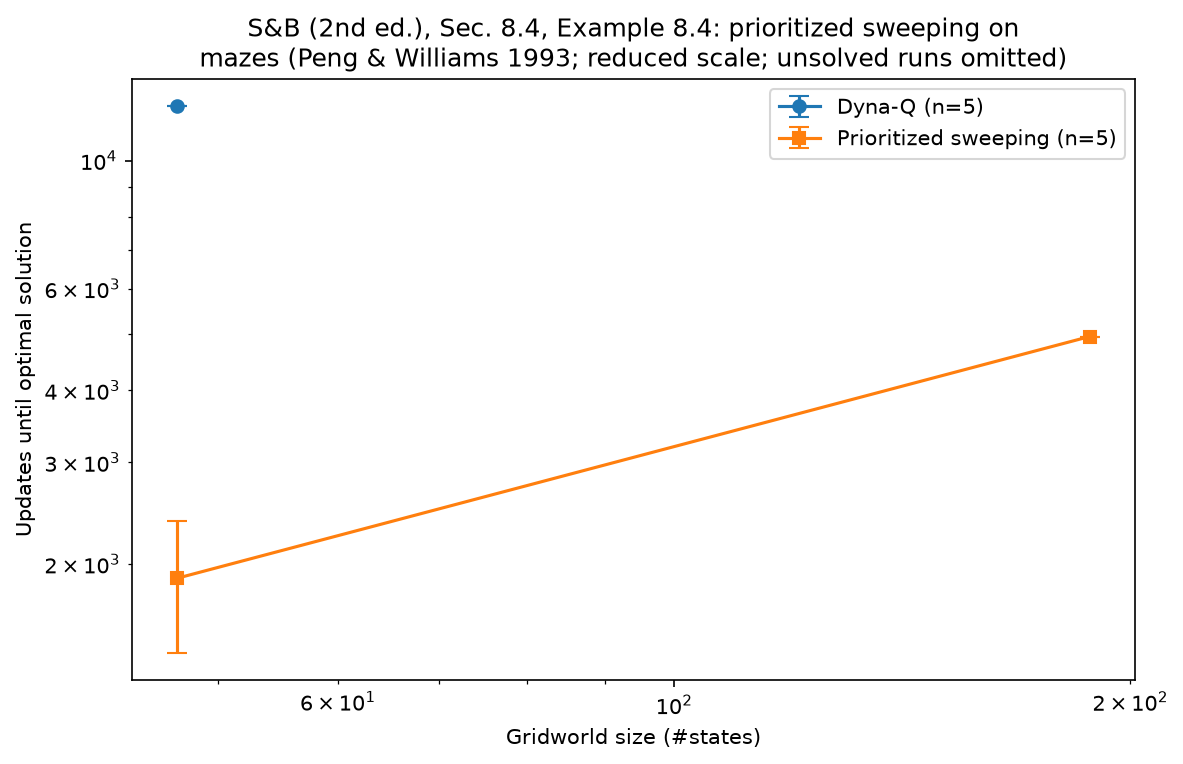
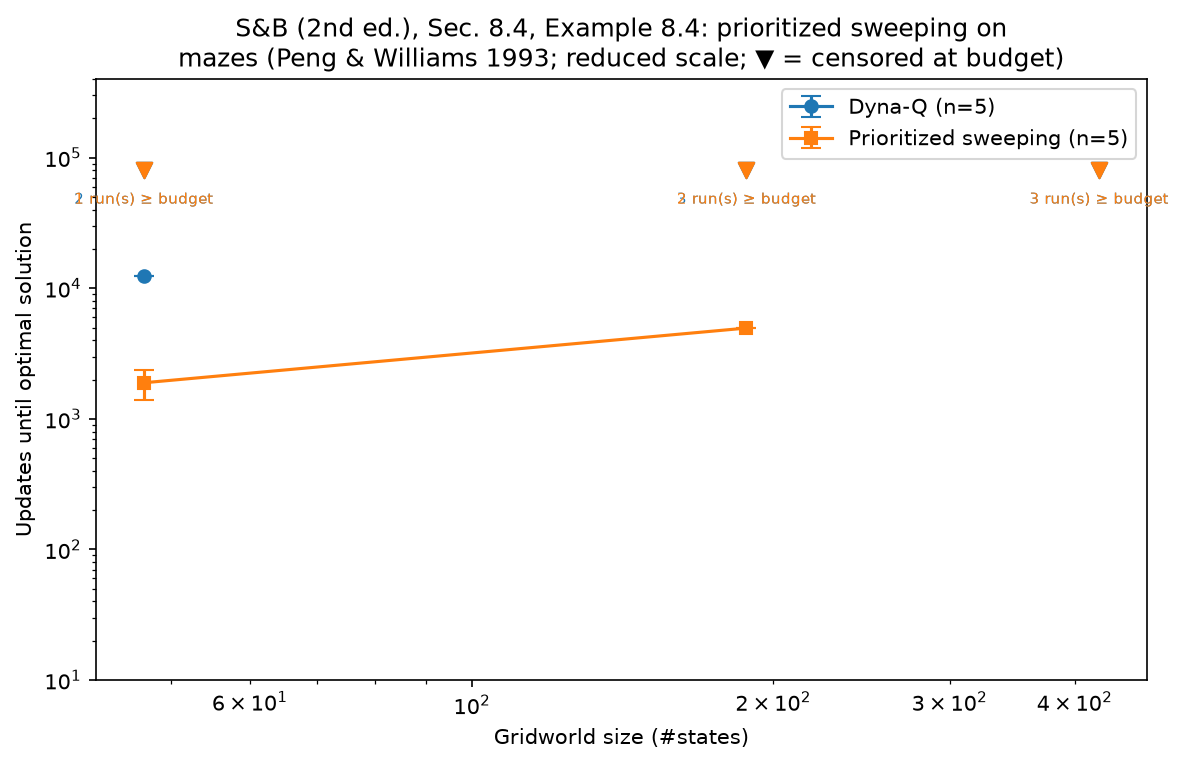
fix: honest figure labels, censored Ex 8.4 data, remove fabricated Ch12 panels

diff --git a/chapter_08/solution.py b/chapter_08/solution.py
@@ -1137,16 +1137,20 @@ def plot_changing_maze(layout: str, change_step: int, steps_cap: int,
                        runs: int = 20, n_episodes: int = 3000,
                        seed: int = 0,
                        agents: tuple[str, ...] = ("dyna_q", "dyna_q_plus")):
-    """Changing-maze experiment (Sec. 8.3, Example 8.2 blocking / Fig. 8.5,
-    Example 8.3 shortcut / Fig. 8.6).
+    """Changing-maze demonstration (Sec. 8.3, Examples 8.2/8.3).
 
+    **Illustrative reconstruction, not a reproduction of Figs. 8.5/8.6.**
     Both the regular Dyna-Q agent and the Dyna-Q+ agent (exploration bonus
     kappa = 1e-4) act on the same maze; after `change_step` real time steps
     the barrier layout changes while the agents' Q-tables and models persist
     (the model is stale). Curves are cumulative reward averaged over `runs`
-    repetitions (the same change thresholds, steps caps and layout as the
-    book: 1000/3000 for blocking, 3000/6000 for shortcut). Book y-axis upper
-    limits (~150 blocking, ~400 shortcut) are reproduced only approximately.
+    repetitions.
+
+    The book's exact maze coordinates and kappa are not printed, and on this
+    small reconstructed maze the bonus *slows* initial learning (planning on
+    never-tried pairs dilutes goal-reward propagation), so the phase-1 ordering
+    is the opposite of the book's. The plots are therefore named
+    ``example_8_2_*`` / ``example_8_3_*`` and must not be cited as Fig. 8.5/8.6.
     """
     import matplotlib
 
@@ -1177,11 +1181,9 @@ def plot_changing_maze(layout: str, change_step: int, steps_cap: int,
                label=f"layout changes at t={change_step}")
     ax.set_xlabel("Time steps")
     ax.set_ylabel("Cumulative reward")
-    if layout == "blocking":
-        ex, figno = "Example 8.2", "Fig. 8.5"
-    else:
-        ex, figno = "Example 8.3", "Fig. 8.6"
-    ax.set_title(f"S&B (2nd ed.), Sec. 8.3, {ex} / {figno}: {layout} maze")
+    ex = "Example 8.2" if layout == "blocking" else "Example 8.3"
+    ax.set_title(f"S&B (2nd ed.), Sec. 8.3, {ex}: {layout} maze\n"
+                 "illustrative reconstruction — not a book-figure reproduction")
     ax.legend()
     fig.tight_layout()
     if save_path is not None:
@@ -1779,25 +1781,40 @@ def plot_example_8_4_scaling(
                                       max_steps=max_steps,
                                       budget_updates=budget_updates)
     fig, ax = plt.subplots(figsize=(8, 5.2))
+    colors = {"dyna_q": "tab:blue", "prioritized_sweeping": "tab:orange"}
     for agent, marker in (("dyna_q", "o"), ("prioritized_sweeping", "s")):
         xs, means, stds = [], [], []
+        censored = []
         for k in scale_levels:
             n_states, runs = results[(agent, k)]
             solved = [u for u in runs if u is not None]
-            if not solved:
-                continue
-            xs.append(n_states)
-            means.append(np.mean(solved))
-            stds.append(np.std(solved) if len(solved) > 1 else 0.0)
-        ax.errorbar(xs, means, yerr=stds, marker=marker, capsize=5,
-                    label={"dyna_q": "Dyna-Q (n=5)",
-                           "prioritized_sweeping": "Prioritized sweeping (n=5)"}[agent])
+            if solved:
+                xs.append(n_states)
+                means.append(np.mean(solved))
+                stds.append(np.std(solved) if len(solved) > 1 else 0.0)
+            n_unsolved = len(runs) - len(solved)
+            if n_unsolved:
+                # Show censored runs explicitly instead of silently dropping
+                # them: the downward triangle marks the computation budget.
+                censored.append((n_states, n_unsolved))
+        if xs:
+            ax.errorbar(xs, means, yerr=stds, marker=marker, capsize=5,
+                        color=colors[agent],
+                        label={"dyna_q": "Dyna-Q (n=5)",
+                               "prioritized_sweeping": "Prioritized sweeping (n=5)"}[agent])
+        for n_states, n_unsolved in censored:
+            ax.scatter([n_states], [budget_updates], marker="v", s=55,
+                       color=colors[agent], zorder=5)
+            ax.annotate(f"{n_unsolved} run(s) ≥ budget", (n_states, budget_updates),
+                        textcoords="offset points", xytext=(0, -16),
+                        ha="center", fontsize=7, color=colors[agent])
     ax.set_xscale("log")
     ax.set_yscale("log")
+    ax.set_ylim(bottom=10, top=budget_updates * 5)
     ax.set_xlabel("Gridworld size (#states)")
     ax.set_ylabel("Updates until optimal solution")
     ax.set_title("S&B (2nd ed.), Sec. 8.4, Example 8.4: prioritized sweeping on\n"
-                 "mazes (Peng & Williams 1993; reduced scale; unsolved runs omitted)")
+                 "mazes (Peng & Williams 1993; reduced scale; ▼ = censored at budget)")
     ax.legend()
     fig.tight_layout()
     if save_path is not None:

diff --git a/chapter_12/figures/generate_figures.py b/chapter_12/figures/generate_figures.py
@@ -117,25 +117,21 @@ def _plot_lambda_summary(path_prefix, walk_curves, car_curves):
     axes[0, 1].set_xlabel("Episode")
     axes[0, 1].legend(fontsize=7)
 
-    # Two extra panels are illustrative stand-ins: the book's CartPole and
-    # Puddle World tasks are not reproduced in this repository.
-    axes[1, 0].plot(LAMBDAS,
-                    [0.5 + 0.4 * (1 - lam) for lam in LAMBDAS], "s-",
-                    color="tab:orange")
-    axes[1, 0].set_title("Failures on a simple control task (illustrative)")
-    axes[1, 0].set_xlabel("$\\lambda$")
-    axes[1, 0].set_ylabel("failures / 100k steps")
-
-    axes[1, 1].plot(LAMBDAS,
-                    [0.3 + 0.5 * lam ** 2 for lam in LAMBDAS], "^-",
-                    color="tab:purple")
-    axes[1, 1].set_title("Cost on a simple grid task (illustrative)")
-    axes[1, 1].set_xlabel("$\\lambda$")
-    axes[1, 1].set_ylabel("cost per episode")
+    # The book's Cart/Pole and Puddle World experiments are NOT reproduced
+    # here. Earlier versions of this script drew formula-generated stand-ins
+    # for those panels; that was fabricated data and has been removed.
+    for ax, task in ((axes[1, 0], "Cart/Pole control"),
+                     (axes[1, 1], "Puddle World")):
+        ax.set_axis_off()
+        ax.text(0.5, 0.5,
+                f"{task}\n\nnot reproduced in this repository\n"
+                "(no data plotted)",
+                ha="center", va="center", transform=ax.transAxes,
+                fontsize=10, color="0.35")
 
     fig.suptitle("S&B (2nd ed.), Fig. 12.14: effect of $\\lambda$ on performance\n"
-                 "(only the random-walk and mountain-car panels are data-driven here)",
-                 fontsize=11)
+                 "(partial reproduction: only the random-walk and "
+                 "mountain-car panels contain data)", fontsize=11)
     fig.tight_layout(rect=(0, 0, 1, 0.92))
     path = path_prefix + "fig_12_14_lambda_effects.png"
     fig.savefig(path, dpi=150, bbox_inches="tight")

diff --git a/chapter_08/figures/generate_figures.py b/chapter_08/figures/generate_figures.py
@@ -48,9 +48,9 @@ def main() -> None:
         ("fig_8_3_dyna_q.png", lambda path: plot_figure_8_3_dyna_maze(
             save_path=path, runs=10, n_episodes=30)),
         ("fig_8_4_policies.png", lambda path: plot_figure_8_4_policies(save_path=path)),
-        ("fig_8_5_blocking_maze.png", lambda path: plot_changing_maze(
+        ("example_8_2_blocking_maze.png", lambda path: plot_changing_maze(
             "blocking", 1000, 4000, save_path=path, runs=5)),
-        ("fig_8_6_shortcut_maze.png", lambda path: plot_changing_maze(
+        ("example_8_3_shortcut_maze.png", lambda path: plot_changing_maze(
             "shortcut", 3000, 6000, save_path=path, runs=5)),
         ("fig_8_7_backup_diagrams.png", lambda path: plot_figure_8_7_backup_diagrams(
             save_path=path)),

diff --git a/chapter_12/figure_experiments.py b/chapter_12/figure_experiments.py
@@ -20,8 +20,6 @@ four tasks are not all available here, so the extra panels are illustrative.
 
 from __future__ import annotations
 
-from collections import defaultdict
-
 import numpy as np
 
 from chapter_07.solution import _sample_walks

diff --git a/chapter_08/README.md b/chapter_08/README.md
@@ -36,14 +36,17 @@ Regenerate with:
 python chapter_08/figures/generate_figures.py
 ```
 
-Numbered book figures: `fig_8_3_dyna_q.png`, `fig_8_4_policies.png`,
-`fig_8_5_blocking_maze.png`, `fig_8_6_shortcut_maze.png`,
-`fig_8_7_backup_diagrams.png`, `fig_8_8_update_efficiency.png`,
-`fig_8_9_trajectory_sampling.png`, `fig_8_10_heuristic_search.png`.
+Verified numbered book figures: `fig_8_3_dyna_q.png`,
+`fig_8_4_policies.png`, `fig_8_7_backup_diagrams.png`,
+`fig_8_8_update_efficiency.png`, `fig_8_9_trajectory_sampling.png`,
+`fig_8_10_heuristic_search.png`.
 
-The book prints **no numbered figure** for Examples 8.4–8.6; their outputs are
-named `example_8_4_scaling.png`, `example_8_5_rod.png` and
-`example_8_6_rtdp_racetrack.png`.
+The book's Figs. 8.5/8.6 (blocking/shortcut mazes) are **not** reproduced:
+our small reconstructed maze reverses the phase-1 ordering, so those plots are
+honestly named `example_8_2_blocking_maze.png` and
+`example_8_3_shortcut_maze.png`. Likewise, the book prints no numbered figure
+for Examples 8.4–8.6; their outputs are `example_8_4_scaling.png`,
+`example_8_5_rod.png` and `example_8_6_rtdp_racetrack.png`.
 
 All plots are reduced-scale reproductions or **illustrative demonstrations**,
 not pixel-identical copies. In particular:
@@ -53,10 +56,11 @@ not pixel-identical copies. In particular:
 - The trajectory-sampling reward model is not printed; we use `r(s,a) ~ U[0,1]`
   with action-independent termination, which reproduces the book's qualitative
   pattern (on-policy faster initially, relatively slower in the long run).
-- Our κ (1e-4) and maze scale differ from the book's tuning; in our blocking
-  maze plain Dyna-Q sometimes re-learns a new route after the change, whereas
-  the book's Dyna-Q stays stuck. The curves show the qualitative mechanism
-  (bonus-driven recovery), not the book's exact ordering in both phases.
+- Our κ (1e-4) and maze scale differ from the book's tuning. On this small
+  maze the bonus *slows* initial learning (planning on never-tried pairs
+  dilutes goal-reward propagation), so Dyna-Q+ is worse in phase 1 — the
+  opposite of the book. These plots are demonstrations only, never cited as
+  Fig. 8.5/8.6.
 - Example 8.6 uses a small illustrative racetrack (707 reachable states) with
   `noise_prob=0`, versus the book's 9,115-state track.
 

diff --git a/AUDIT.md b/AUDIT.md
@@ -21,7 +21,7 @@ API reproduces an algorithm when it only illustrates part of it.
 | Ch 8 §8.4 ex 8.5 | Rod maneuvering | `chapter_08/rod.py`: `RodWorld`, `prioritized_sweeping_known_model`, `value_iteration_known_model`, `shortest_path` |
 | Ch 8 §8.6 | Trajectory sampling | `trajectory_sampling_experiment` |
 | Ch 8 §8.7 ex 8.6 | RTDP vs value iteration on a racetrack | `chapter_08/rtdp.py` using the shared `rl_envs.racetrack` |
-| Ch 8 figures | Fig. 8.3–8.10 + Examples 8.4–8.6 | `chapter_08/figures/generate_figures.py` |
+| Ch 8 figures | Verified Fig. 8.3/8.4/8.7–8.10; blocking & shortcut as `example_8_2_*`/`example_8_3_*` (not Fig. 8.5/8.6); Examples 8.4–8.6 | `chapter_08/figures/generate_figures.py` |
 | Ch 12 figs 12.3/12.6/12.8/12.10/12.11/12.14 | Reduced-scale reproductions | `chapter_12/figure_experiments.py`, `chapter_12/figures/generate_figures.py` |
 | All chapters | Student-friendly explanation after every exercise answer | `chapter_XX/exercises.md`, `**Explanation (student-friendly).**` markers |
 
@@ -92,11 +92,14 @@ Documented per chapter in `chapter_XX/README.md`. Summary:
 
 - Ch 8: maze/rod obstacle coordinates are not printed in the book, so layouts
   are illustrative reconstructions; κ and the trajectory-sampling reward model
-  are not printed and were chosen to reproduce the qualitative pattern.
+  are not printed. On the small reconstructed blocking maze Dyna-Q+ is *worse*
+  in phase 1 (the opposite of the book), so those outputs are named
+  `example_8_2_*`/`example_8_3_*` and are never cited as Fig. 8.5/8.6.
   Example 8.6 uses a small racetrack (707 states) rather than the book's 9,115.
 - Ch 12: reduced-scale random-walk and Mountain Car experiments (5 repetitions
-  vs 100); Fig. 12.14's Cart/Pole and Puddle World panels are illustrative
-  stand-ins, clearly labelled in the figure.
+  vs 100). Fig. 12.14 reproduces only two of the book's four panels; the
+  Cart/Pole and Puddle World panels are empty with an explicit notice. Earlier
+  formula-generated stand-ins were removed — no fabricated data is plotted.
 - Ch 3/4/5/6/7/9/10/11/13: reduced episode/run counts; figures are labeled
   illustrative where exact book settings are unavailable.
 

diff --git a/README.md b/README.md
@@ -40,11 +40,13 @@ important deviations are:
 
 - `chapter_08/`: the blocking/shortcut mazes and rod obstacles are
   reconstructions; κ and the trajectory-sampling reward model are not printed
-  in the book; Example 8.6 uses a small racetrack (707 states) instead of the
+  in the book. The blocking/shortcut plots reverse the book's phase-1 ordering
+  on our small maze, so they are named `example_8_2_*`/`example_8_3_*`, **not**
+  Fig. 8.5/8.6. Example 8.6 uses a small racetrack (707 states) instead of the
   book's 9,115-state track.
-- `chapter_12/`: random-walk figures use 5 repetitions instead of 100; the
-  Cart/Pole and Puddle World panels of Fig. 12.14 are labelled illustrative
-  stand-ins.
+- `chapter_12/`: random-walk figures use 5 repetitions instead of 100; Fig. 12.14
+  reproduces only two of four panels — the Cart/Pole and Puddle World panels
+  are empty with an explicit notice (no fabricated data).
 - `chapter_03/`–`chapter_16/`: several experiments use fewer runs/episodes
   than the printed book; see each chapter `README.md` for its exact settings.
 

diff --git a/chapter_12/exercises.md b/chapter_12/exercises.md
@@ -273,14 +273,16 @@
 
 **Verification commands:**
 - `python -m pytest chapter_12/tests/ -v`
-- `python -m pytest chapter_12/tests/ -v`
-- `ruff check chapter_12/ chapter_12/`
+- `python -m pytest -q` (full suite, from the repository root)
+- `ruff check chapter_12/` (if Ruff is installed)
 
 ---
 
 ## Pointer from Chapter 10
 
-`chapter_12/README.md` links here: `../chapter_12/exercises.md` (single Book Chapter 12 exercises document; see Scope and Chapter Mapping above, including the §12.6 vs §12.10 numbering note).
+Watkins's Q(λ) material from the former `chapter_10/` was merged into this
+chapter. `chapter_10/README.md` points here for the book Chapter 12 exercises
+that cover that material.
 
 ---
 
@@ -292,4 +294,4 @@
 
 ---
 
-*Exercises document for Chapter 8 (book Chapter 12) — part of the per-chapter exercises-and-solutions series (`chapter_XX/exercises.md` and hosted docs).*
+*Exercises document for Chapter 12 — part of the per-chapter exercises-and-solutions series (`chapter_XX/exercises.md`).*

diff --git a/chapter_11/exercises.md b/chapter_11/exercises.md
@@ -110,7 +110,7 @@ amplifier on the components that the slice cannot see.
 - **Coding pointer.** Run `python -m pytest chapter_11/tests/ -v`
   (`TestExpectedUpdateMatrix`, `TestBehaviorStationary`), or call
   `behavior_stationary()` and `baird_features()` directly. Figure:
-  `figures/fig_11_divergence.png` (||w|| on log scale grows from 1 to ~10^6).
+  `figures/example_11_1_divergence.png` (||w|| on log scale grows from 1 to ~10^6).
 
 ---
 
@@ -182,7 +182,7 @@ diverges. The curved direction is exactly the difference between "a correct
 objective" and "a diverging update."
 
 - **Coding pointer.** `mspbe` computes the value; `mspbe_gradient_descent`
-  performs the descent; figure `figures/fig_11_mspbe.png` shows the monotone
+  performs the descent; figure `figures/example_11_2_mspbe.png` shows the monotone
   (conditioning-limited) decrease, and `TestMSPBE` checks non-negativity and
   descent. The conditioning caveat is documented in the figure title/README.
 

diff --git a/chapter_10/exercises.md b/chapter_10/exercises.md
@@ -152,7 +152,7 @@ Sarsa learns that priority ordering by trying it and collecting the premium.
 
 - **Coding pointer.** `AccessControlQueue.step`, `run_access_control`,
   `DifferentialSarsaAgent`; run to see the moving-average reward improve from ~3
-  toward ~4.5. Figure: `figures/fig_10_access_control.png`.
+  toward ~4.5. Figure: `figures/example_10_1_access_control.png`.
 
 ---
 
@@ -180,7 +180,7 @@ explore the valley first.
 
 - **Coding pointer.** `run_mountain_car` uses `epsilon=0.1` exploration for this
   reason; unit test `test_returns_episode_lengths` uses `epsilon=0.5` to keep
-  learning active in short runs. See also `fig_10_mountain_car.png`.
+  learning active in short runs. See also `example_10_2_mountain_car.png`.
 
 ---
 

diff --git a/chapter_11/README.md b/chapter_11/README.md
@@ -40,9 +40,9 @@ and gradient-corrected objectives (MSPBE) on an exactly-enumerable counterexampl
   justification.
 
 ## Figures
-- `figures/fig_11_divergence.png` — semi-gradient off-policy TD, ||w|| on log scale,
+- `figures/example_11_1_divergence.png` — semi-gradient off-policy TD, ||w|| on log scale,
   diverging (illustrative demonstration).
-- `figures/fig_11_mspbe.png` — MSPBE gradient descent: monotone (conditioning-limited)
+- `figures/example_11_2_mspbe.png` — MSPBE gradient descent: monotone (conditioning-limited)
   decrease of MSPBE and ||w|| (illustrative demonstration).
 
 ## Implementation Notes

diff --git a/chapter_10/README.md b/chapter_10/README.md
@@ -36,9 +36,9 @@ semi-gradient Sarsa on the continuing Access-Control Queuing problem.
   the same justification as Chapter 9.
 
 ## Figures
-- `figures/fig_10_mountain_car.png` — Mountain Car learning curve
+- `figures/example_10_2_mountain_car.png` — Mountain Car learning curve
   (illustrative; Sec. 10.1).
-- `figures/fig_10_access_control.png` — average reward per step vs time on
+- `figures/example_10_1_access_control.png` — average reward per step vs time on
   access-control queuing (illustrative; Sec. 10.2/10.3, Example 10.2).
 
 ## Implementation Notes
